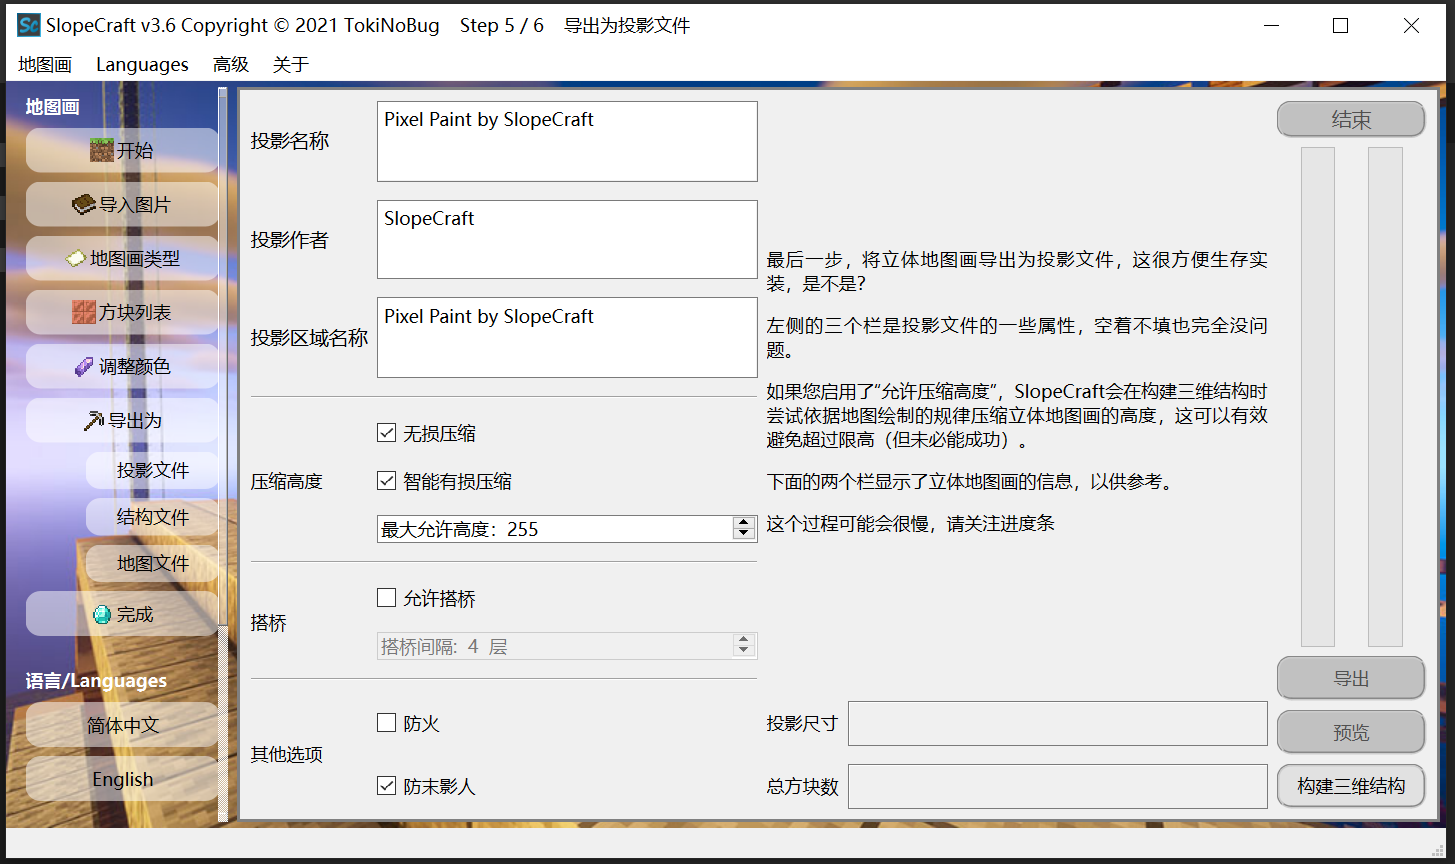
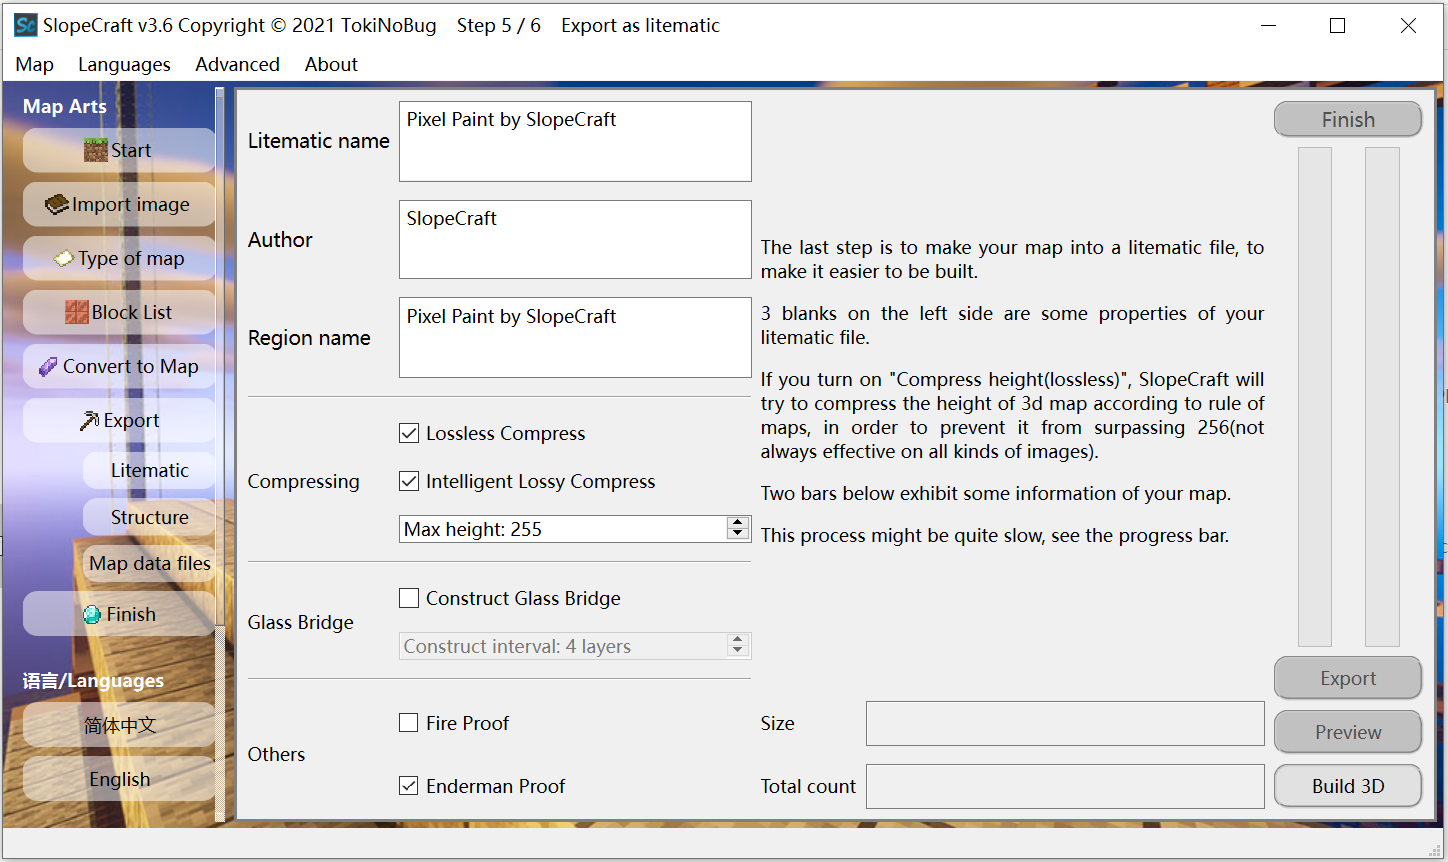
translate and update images

diff --git a/v3.6Tutorial/en_US/v3.6Tutorial.tex b/v3.6Tutorial/en_US/v3.6Tutorial.tex
@@ -128,22 +128,20 @@
     
     Dithering uses Floyd-Steinberg algorithm, it tries to fit the orignal image better through mixing several similar colors.
     
-    这里以\href{https://t.bilibili.com/544583492149793294}{Lancet\_Corgi画的图}为例。（\href{https://space.bilibili.com/37171000}{Lancet\_Corgi的b站主页}，感谢\~）
+    Here we take picture drawn by \href{https://t.bilibili.com/544583492149793294}{Lancet\_Corgi} as an example(Thanks to Lancet\_Corgi, here's \href{https://space.bilibili.com/37171000}{his homepage on BiliBili})
     
     \begin{figure}[htbp]
         %\addtocounter{figure}{-1}
         \centering
         \setcounter{subfigure}{0}
-        \subfigure[原图]{
+        \subfigure[Before Convertion]{
             \begin{minipage}[t]{7cm}
                 \centering
-                \includegraphics[width=6cm]{Img3_Raw.png}
-                %\caption{原图}
-                
+                \includegraphics[width=6cm]{Img3_Raw.png}                
                 \label{ruby_raw}
             \end{minipage}
         }
-        \subfigure[转化后]{
+        \subfigure[After Convertion]{
             \begin{minipage}[t]{7cm}
                 \centering
                 \includegraphics[width=6cm]{Img4_Converted.png}
@@ -151,53 +149,53 @@
                 \label{ruby_converted}
             \end{minipage}
         }
-        \caption{导入原图并按RGB+算法（无抖动）转化}
+        \caption{Convert using RGB+(dithering disabled)}
     \end{figure}
     
-    \subsection{导出三维结构}
-    若想要把地图画保存为\textbf{.Litematic}（投影mod）、\textbf{.nbt}（结构方块）格式，须先点击\textbf{构建三维结构}，然后再\textbf{导出}。构建三维结构完成之后会自动弹出预览窗口，可以查看材料表，也可以查看地图画。
+    \subsection{Export 3D structure}
+    If you hope to save the map in \textbf{.Litematic}(for Litematica mod) or \textbf{.nbt}(for Minecraft strcuture block) format, you should click \textbf{Build 3D} and then \textbf{Export}. When finished building, SlopeCraft will send you a preview window where you can see the material list and map.
 
     \begin{figure}[htbp]
         \centering
         \includegraphics[width=15cm]{Img2_Export3D.png}
-        \caption{导出三维结构界面}
+        \caption{Interface of Exporing 3D}
     \end{figure}
 
-    压缩高度一栏增加了\textbf{智能有损压缩}；增加了\textbf{搭桥}选项；增加了\textbf{防火}和\textbf{防末影人}选项。 在主进度条的右侧多了一个子进度条，表示有损压缩/搭桥的进度。
+    In this interface, \textbf{Intelligent Lossy Compress} and \textbf{Construct Glass Bridge} are added. And some other options like \textbf{Fire Proof} and \textbf{Enderman Proof} are added. A new sub progress bar is used to show the progress of lossy compression and construction of glass bridge.
         
-    \subsubsection{压缩}
-    简单来说，无损压缩是在\textbf{严格保证每个像素颜色不变}的前提下，以连续性为代价，压缩地图画总高度，但它约束较大，未必如愿。毫不夸张的说，有些图片是不可压缩的，比如纯白色的部分。这时候就需要新的压缩技术：智能有损压缩。
+    \subsubsection{Compression}
+    Simply put, lossless compression is to compress the total height of 3D map at the cost of consecutiveness while \textbf{keeping colors of each pixel strictly unchanged}. It's a really rigorous restriction so it may fail to reach your expectation. It's no exaggeration to say that some images are mathematically uncompressable, like full-white parts. Then new compress technology is required: intelligent lossy compression.
 
-    有损压缩则\textbf{微调个别像素的颜色}，压缩地图画总高度，使其小于等于用户指定的最大允许高度。有损压缩使用遗传算法实现，属于群体人工智能，是目前SlopeCraft中技术含量最高的模块。最大允许高度不要低于14，否则立体地图画很可能压缩失败。
+    Different with the lossless one, lossy compression compress by \textbf{slightly modifying some pixel}, to make the total height no greater than the maximum allowed height(MAH) which is assigned by you. Genetic algorithm, which belongs to swarm intelligence, is employed to implement lossy compression. So you can see it's a speacial part of SlopeCraft with most technical content. The MAH should be no less than 14, otherwise your 3D map still have some probability of failing to be compressed.
 
-    一般来说，有损压缩的最大允许高度越小，画质损失越明显。如下，这张图若做成立体地图画，高度是255格，现在进行有损压缩（同时启用无损压缩）。图\ref*{ruby_max100}为最大高度100格时的构建结果，图\ref*{ruby_max20}为最大高度20格时的构建结果。
+    In general, the less MAH is, the more quality loss in your map. For example, is this map is made into a 3D map, its height will be 255. Now we compress it with both lossy and lossless algorithm. Firgue \ref*{ruby_max100} shows the result when MAH=100, and \ref*{ruby_max20} shows when MAH=20.
 
     \begin{figure}[htbp]
         \centering
-        \subfigure[最大100格]{
+        \subfigure[MAH=100]{
             \begin{minipage}[t]{7cm}            
                 \centering
                 \includegraphics[width=6cm]{Img6_Compressed_100.png}
                 \label{ruby_max100}
             \end{minipage}
         }
-        \subfigure[最大20格]{
+        \subfigure[MAH=20]{
             \begin{minipage}[t]{7cm}
                 \centering
                 \includegraphics[width=6cm]{Img5_Compressed_20.png}
                 \label{ruby_max20}
             \end{minipage}
         }
-        \caption{最大允许高度对画质的影响}
+        \caption{MAH's effect to picture quality}
     \end{figure}
 
-    压缩前后图片没有显著变化，画质损伤不明显。但仔细观测仍可以发现，左右两侧留白部分出现了一些灰点，且图\ref*{ruby_max20}由于压缩程度高，灰点较图\ref*{ruby_max100}更多。另外，遗传算法是一种随机优化算法，被修改像素有一定随机性，不会呈现明显的规律图样。
+    There's no obvious difference before and after the compression. But you can still find that some gray dots appear on the left and right side. You can learn that the number of gray dots has a negative relation with MAH. Otherwise, as genetic algorithm is a stochastic optimizing algorithm, there's some randomness in which pixel will be modified and regular pattern won't appear.
 
-    有损压缩和无损压缩可以搭配使用，也可以分别独立使用。但一般来说，如果启用了有损压缩，没道理不启用无损压缩。纯有损压缩需要修改更多的像素，对画质的损伤会比较大，无损压缩能在修改像素更少的情况下完成压缩任务，很大程度上减轻画质损伤。
+    Lossy and lossless compression can be used either together or respectively. But in general, if you have already enabled lossy one, there's no way to disable the lossless one. Lossy compression without lossless will make a lot more pixels modified, bringing more quality loss, while the lossless counterpart make the compression be finished with less pixel modified and less quality loss.
     
-    平板地图画和墙面像素画可以勾选这两个选项，但\textbf{不会发挥任何作用}。
+    You can choose these options with flat map or wall map, but they \textbf{won't take any result}.
 
-    \subsubsection{搭桥}
+    \subsubsection{Construct the Glass Bridge}
     立体地图画的每个水平截面上都有很多分散的方块，极不方便建造，倘若能用多条通路连接这些分散的方块，无疑能让建造更加容易。搭桥就是在一个水平面内用玻璃方块连接所有方块，形成通路从而辅助玩家建造的过程。
     
     毫无疑问，搭桥会消耗额外的玻璃，因此不推荐在立体地图画的每一层都执行搭桥。默认每间隔4层搭一次桥，你也可以修改这个间隔。间隔过大，辅助搭桥的效果会减弱；间隔过小，浪费玻璃。
